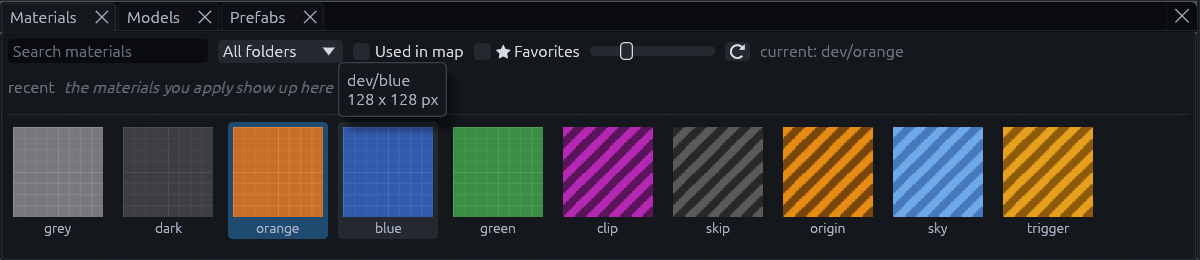
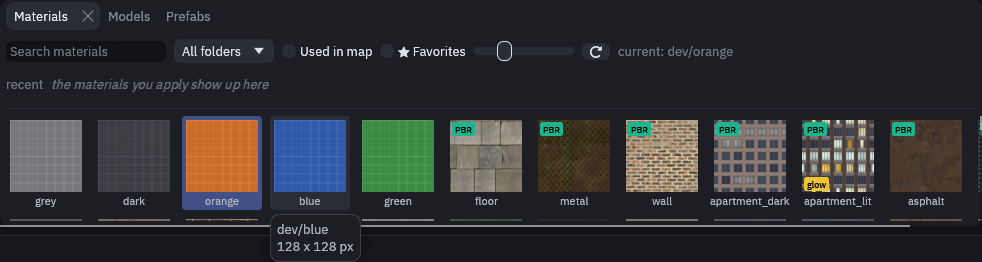
Retake the Materials panel, drop and context menu screenshots in the card look

diff --git a/docs/editor/texturing.md b/docs/editor/texturing.md
@@ -6,7 +6,7 @@ Your textures live in the **Materials** panel, at the bottom of the window under
 top left filters them by name, **Used in map** and **Favorites** narrow the list down, and the slider sets the
 thumbnail size.
 
-![The Materials panel with the search box, the folder list, Used in map, Favorites and the size slider, below them the built in grids and tool textures with dev/blue hovered showing its name and size](../assets/texturing/materials-panel.png)
+![The Materials panel with the search box, the folder list, Used in map, Favorites and the size slider, below them the material thumbnails with dev/blue hovered showing its name and size](../assets/texturing/materials-panel.png)
 
 | Do this | Result |
 | --- | --- |
